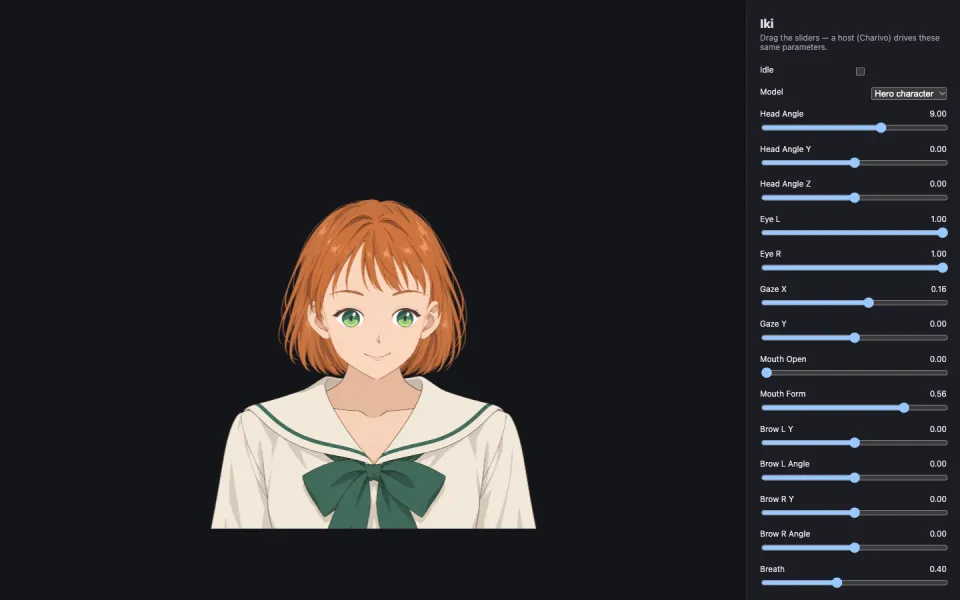
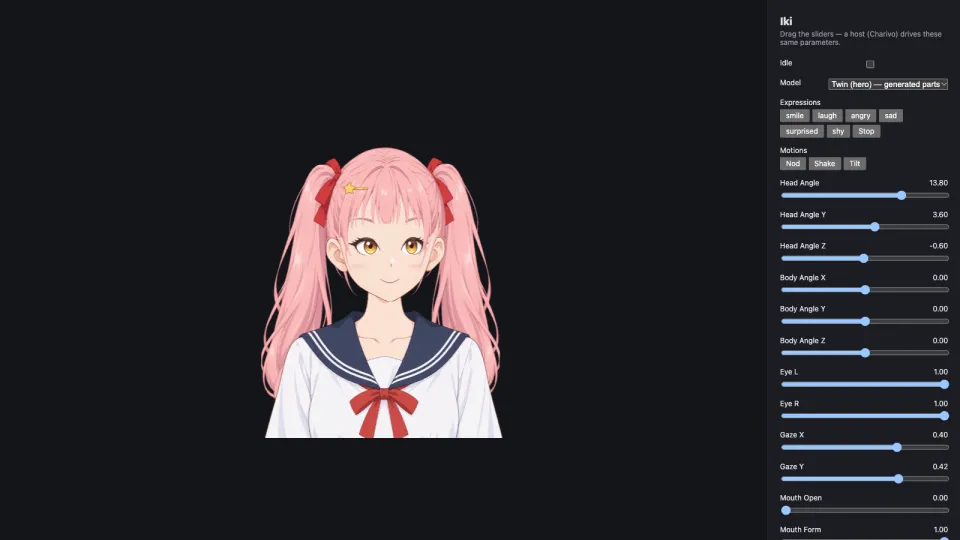
fix(projects): Iki, Cimulity and Charivo pages open with what each is and answer license, setup and limits; render-iki is on npm and Charivo's demo runs Iki characters; Iki image re-captured from the current playground

Changed region(s): [[0.7812, 0.0296, 1.0, 1.0], [0.2188, 0.2667, 0.5625, 0.8889]]

diff --git a/resume-ko.html b/resume-ko.html
@@ -131,7 +131,7 @@ redirect_from:
           <h3><a href="{{ '/projects/iki/' | relative_url }}">Iki</a></h3>
           <p>
             Live2D 대안으로 만든 웹용 오픈소스 2D 캐릭터 애니메이션 엔진입니다.
-            캐릭터를 설명하면 이미지 모델이 파츠를 그리고, AI 에이전트가 MCP 서버로 눈 깜빡임, 시선, 립싱크, 머리카락 물리까지 리깅합니다.
+            캐릭터를 설명하면 이미지 모델이 파츠를 그리거나 완성된 그림 한 장을 파츠로 잘라내고, AI 에이전트가 MCP 서버로 눈 깜빡임, 시선, 립싱크, 머리카락 물리까지 리깅합니다.
           </p>
           <div class="project-tags">
             <span>TypeScript</span>
@@ -182,12 +182,13 @@ redirect_from:
         <article class="resume-project">
           <h3><a href="{{ '/projects/charivo/' | relative_url }}">Charivo</a></h3>
           <p>
-            Live2D 캐릭터에 LLM과 음성을 붙이는 TypeScript 프레임워크로, 채팅, TTS, STT, 실시간 음성 프로바이더를 갈아 끼울 수 있게 npm 패키지 9개로 나눠 배포했습니다.
-            Live2D 모델의 표정과 모션을 LLM 도구로 노출해, 대화 중에 캐릭터가 스스로 표정을 바꾸고 움직입니다.
+            Live2D·Iki 캐릭터에 LLM과 음성을 붙이는 TypeScript 프레임워크로, 채팅, TTS, STT, 실시간 음성 프로바이더를 갈아 끼울 수 있게 npm 패키지 10개로 나눠 배포했습니다.
+            캐릭터 모델의 표정과 모션을 LLM 도구로 노출해, 대화 중에 캐릭터가 스스로 표정을 바꾸고 움직입니다.
           </p>
           <div class="project-tags">
             <span>TypeScript</span>
             <span>Live2D</span>
+            <span>Iki</span>
             <span>LLM/TTS/STT</span>
           </div>
         </article>

diff --git a/resume.html b/resume.html
@@ -129,8 +129,8 @@ redirect_from:
           <h3><a href="{{ '/projects/iki/' | relative_url }}">Iki</a></h3>
           <p>
             Open-source 2D puppet engine for the web, built as a Live2D alternative that an AI agent can rig.
-            Describe a character and an image model draws the parts, then the MCP server rigs blinking, gaze,
-            lip-sync, and hair physics automatically.
+            An image model draws a character's parts from a description, or one finished picture is cut into them,
+            then the MCP server rigs blinking, gaze, lip-sync, and hair physics automatically.
           </p>
           <div class="project-tags">
             <span>TypeScript</span>
@@ -185,13 +185,14 @@ redirect_from:
         <article class="resume-project">
           <h3><a href="{{ '/projects/charivo/' | relative_url }}">Charivo</a></h3>
           <p>
-            TypeScript framework that gives Live2D characters an LLM and a voice, published as nine npm packages
+            TypeScript framework that gives Live2D and Iki characters an LLM and a voice, published as ten npm packages
             with swappable providers. The model's expressions and motions are exposed as LLM tools, so the
             character changes them mid-conversation.
           </p>
           <div class="project-tags">
             <span>TypeScript</span>
             <span>Live2D</span>
+            <span>Iki</span>
             <span>LLM/TTS/STT</span>
           </div>
         </article>

diff --git a/_projects/charivo.md b/_projects/charivo.md
@@ -1,9 +1,9 @@
 ---
 layout: project
 title: "Charivo"
-description: "TypeScript framework for Live2D AI characters that talk, react, and look at you, with swappable OpenAI and Gemini backends for chat and voice."
+description: "TypeScript framework for AI characters that talk, react, and look at you, rendered with Live2D or Iki, with swappable OpenAI and Gemini backends for chat and voice."
 tagline: "TypeScript Framework for Live2D AI Characters"
-tech_stack: ["TypeScript", "Live2D", "OpenAI Realtime", "Gemini Live", "LLM/TTS/STT", "pnpm Monorepo", "Changesets"]
+tech_stack: ["TypeScript", "Live2D", "Iki", "OpenAI Realtime", "Gemini Live", "LLM/TTS/STT", "pnpm Monorepo", "Changesets"]
 github_url: "https://github.com/zeikar/charivo"
 demo_url: "https://charivo.vercel.app/"
 image: "/assets/images/projects/charivo.png"
@@ -11,14 +11,14 @@ gadget_no: 12
 date: 2025-09-16
 ---
 
-Charivo is the framework I build talking characters on: a Live2D model on a canvas, a language model behind it, and a voice going in and out. Each of those is its own `@charivo/*` package behind an interface, so moving a character from OpenAI to Gemini, or from typed chat to live voice, means swapping a client, not rewriting the app.
+**Charivo** is an open-source TypeScript framework for AI characters that talk, react, and look at you: a Live2D or [Iki](/projects/iki/) model on a canvas, a language model behind it, and a voice going in and out. Each of those is its own `@charivo/*` package on npm behind an interface, so moving a character from OpenAI to Gemini, or from typed chat to live voice, means swapping a client, not rewriting the app. It's the character's embodiment, not an agent framework: planning, long-term memory, and deciding when to speak stay in your app or agent runtime.
 
 ## Two ways to hold a conversation
 
 - **Cascade.** Text goes to an LLM, the reply goes to TTS, and the TTS manager analyzes the audio to drive lip sync. A new message cancels the turn still in flight, and `interrupt()` stops a reply mid-sentence.
 - **Realtime.** A realtime manager replaces the LLM + TTS pair with one speech-to-speech session: OpenAI Realtime over WebRTC or Gemini Live over WebSocket. Your server route only starts the session and hands out a short-lived credential. After that, the browser streams microphone audio straight to the provider and plays the voice back itself.
 
-OpenAI and Gemini both cover every modality: chat, TTS, STT, and realtime. Speech-to-text also comes in streaming form, so a transcript fills in while you're still talking.
+OpenAI and Gemini both cover every modality: chat, TTS, STT, and realtime. Chat has a third provider, a local OpenClaw agent. Speech-to-text also comes in streaming form, so a transcript fills in while you're still talking.
 
 ## Keys belong on the server
 
@@ -26,10 +26,22 @@ Every modality splits into a stateful manager and interchangeable clients. The `
 
 ## The LLM picks the expression
 
-`@charivo/avatar` turns the loaded model's own expressions and motions into tools: `setExpression`, `playMotion`, and `lookAt`. Their arguments are enums built from that model's catalog, so the LLM can't call for an expression the model doesn't have. The same tools plug into typed chat and realtime voice alike, so a reply can change the character's expression and pose, not just move its mouth.
+`@charivo/avatar` turns the loaded model's own expressions and motions into tools: `setExpression`, `playMotion`, and `lookAt`. The first two take enums built from that model's catalog, so the LLM can't call for an expression the model doesn't have; `lookAt` takes a point to look at. The same tools plug into typed chat and realtime voice alike, so a reply can change the character's expression and pose, not just move its mouth.
+
+## Live2D or Iki
+
+The renderer is a package too. `@charivo/render-live2d` plays Cubism models, and [`@charivo/render-iki`](https://www.npmjs.com/package/@charivo/render-iki) plays `.iki` models from [Iki](/projects/iki/), my open 2D rig engine whose characters an AI agent can draw and rig. Lip sync, gaze, and the avatar tools work the same on either.
+
+Every package is MIT except `@charivo/render-live2d`, which bundles the Cubism SDK for Web. Publishing a product built on it needs Live2D's publication license, from which small developers are exempt in some cases; the Iki renderer needs no license beyond MIT.
 
 ## Where it runs
 
-There are two live demos. The [web app](https://charivo.vercel.app/) lets you switch every provider from a settings menu, and the [Companion](https://charivo-companion.vercel.app/) is voice-first and remembers you across sessions in the same browser. The docs live at [zeikar.dev/charivo](https://zeikar.dev/charivo/).
+There are two live demos. The [web app](https://charivo.vercel.app/) lets you switch every provider from a settings menu and talk to Live2D or Iki characters, including Iki's [Twin](https://charivo.vercel.app/?character=twin) and full-body [Mint](https://charivo.vercel.app/?character=mint). The [Companion](https://charivo-companion.vercel.app/) is voice-first and remembers you across sessions in the same browser. The docs live at [zeikar.dev/charivo](https://zeikar.dev/charivo/), and a typed-chat character starts from:
 
-[LiveClaw](/projects/liveclaw/) is an Electron desktop app built on Charivo that gives a local OpenClaw agent a Live2D face and a voice. Charivo can also render through [Iki](/projects/iki/), my open 2D rig engine, via a private `render-iki` adapter that isn't published to npm; the published renderer and the demos use Live2D. CI still builds that adapter against Iki's published engine, so a breaking change in Iki fails Charivo's build.
+```
+pnpm add @charivo/core @charivo/llm @charivo/tts @charivo/render @charivo/render-live2d
+```
+
+For an Iki model, swap `@charivo/render-live2d` for `@charivo/render-iki`.
+
+[LiveClaw](/projects/liveclaw/) is an Electron desktop app built on Charivo that gives a local OpenClaw agent a Live2D face and a voice.

diff --git a/_projects/iki.md b/_projects/iki.md
@@ -26,7 +26,7 @@ date: 2026-06-04
 ## An agent draws and rigs the character
 
 - **What goes in:** one of three things. A text description, from which the plugin generates each part. One finished, front-facing picture, which the plugin cuts into layers in place, painting in what each layer hides, so at rest the model is the picture itself. Or your own transparent PNG layers named by role, or a plain PSD of the same layers, in the editor. `face`, `eye_L`, `eye_R` and `mouth` are required; irises, brows, lashes, nose, blush, hair, and torso are optional.
-- **What comes out:** a validated `.iki` model that blinks, gazes, lip-syncs, turns, nods and tilts its head, moves its brows, and breathes, with hair swaying on physics. On a turn the nose leads, the features slide across the face, and the back hair trails behind, so it reads as a head rotating rather than a cutout sliding.
+- **What comes out:** a validated `.iki` model that blinks, gazes, lip-syncs, turns, nods and tilts its head, moves its brows, and breathes, with hair swaying on physics. It also gets nod, shake and tilt motions and up to six expressions that a host plays by name: smile, laugh and surprised on any model, angry and sad when it has brows, shy when it has blush. On a turn the nose leads, the features slide across the face, and the back hair trails behind, so it reads as a head rotating rather than a cutout sliding.
 - **How an agent drives it:** the `@ikijs/mcp` server exposes `auto_rig_from_layers`, plus `compose_layers_from_parts` to place generated part images on a shared canvas and `measure_layers`, a geometry report that catches an iris the wrong size for its eye or a cropped edge before it costs another round of image generation. `measure_turn_reference` measures how far a head turns between a front and a turned reference image, so the rig's turn can be fitted to it. For a finished picture, `view_illustration_grid` shows it under a coordinate grid so the agent can read landmarks off it (the eyes, the brows, the bangs), and `cut_layers_from_illustration` cuts along them and reports numeric checks the agent fixes against.
 
 The plugin, for Claude Code and Codex, bundles the server with three skills: a single pass from a text description to a finished `.iki`, a generator/critic loop in which an artist agent draws and re-rigs while a critic agent scores the render against a reference image until it's worth shipping, and the import that cuts one finished picture. Drawing the parts needs an image generator; the prompts were tuned against Codex CLI's built-in image generation.
@@ -50,6 +50,10 @@ The validator fails fast and names the exact path, e.g. `parts[3].mesh.indices[1
 
 ## Using it
 
-The format, engine, a headless editing core, and the MCP server are on npm under `@ikijs`. The [landing page](https://zeikar.dev/iki/) plays the generated hero live, its head and eyes following the mouse, and the [playground](https://zeikar.dev/iki/playground/) moves it with the same sliders a host would drive, beside the same character cut from one picture. The [editor](https://zeikar.dev/iki/editor/) auto-rigs a set of named layers in a couple of seconds, authors parts, deformers, and physics rigs, and exports a validated `.iki`. It's still early and the schema is settling; for production-grade rigging today, use Cubism.
+The format, engine, a headless editing core, and the MCP server are on npm under `@ikijs`. The [landing page](https://zeikar.dev/iki/) plays the generated hero live, its head and eyes following the mouse. The [playground](https://zeikar.dev/iki/playground/) drives it with the sliders, expressions, and motions a host would use, switches to the same character cut from one picture or to full-body models, and opens any `.iki` you load. The [editor](https://zeikar.dev/iki/editor/) auto-rigs a set of named layers (or [its sample set](https://zeikar.dev/iki/editor/?sample)) in a couple of seconds, authors parts, deformers, and physics rigs, and exports a validated `.iki`.
 
-[Charivo](/projects/charivo/) dogfoods it through a private `render-iki` adapter that its CI builds against Iki's published engine; Charivo's published renderer and demos still use Live2D.
+The runtime goes wherever WebGL2 does: a web page, an Electron window, an OBS browser source. [Charivo](/projects/charivo/) renders `.iki` models through [`@charivo/render-iki`](https://www.npmjs.com/package/@charivo/render-iki), and its [live demo](https://charivo.vercel.app/?character=twin) lets you talk to the hero character, Twin, and a full-body one, Mint, by chat or voice, with lip-sync.
+
+## What it isn't, yet
+
+Iki is 0.x. It rigs and plays characters, but it isn't a VTuber app: there's no webcam face tracking, so your code or a host like Charivo drives the character. Characters are front views that turn about 30° either way, not full 3D turns. It can't load Live2D models, there's no native or Unity runtime, and until 1.0 the `.iki` format can still change. For production-grade rigging today, use Cubism.

diff --git a/_projects/cimulity.md b/_projects/cimulity.md
@@ -11,7 +11,7 @@ gadget_no: 13
 date: 2026-01-07
 ---
 
-You lay roads, zone land as residential, commercial or industrial, and place power plants, water towers, police and fire stations, hospitals, schools and parks on a 64×64 isometric map. The simulation decides what gets built. The ground is a generated heightmap you can raise, lower and flatten, and anything at or below sea level is water. It's playable and still growing, built with my Claude Code plugin [hyperclaude](/projects/hyperclaude/).
+**Cimulity** is an open-source, MIT-licensed SimCity-style city builder that runs in the browser, written in TypeScript on PixiJS and Next.js. You lay roads, zone land as residential, commercial or industrial, and place power plants, water towers, police and fire stations, hospitals, schools and parks on a 64×64 isometric map. The simulation decides what gets built. The ground is a generated heightmap you can raise, lower and flatten, and anything at or below sea level is water. It's an open-ended sandbox with no win or lose condition. It's playable, still growing, and built with my Claude Code plugin [hyperclaude](/projects/hyperclaude/).
 
 ## Everything runs over the roads
 
@@ -19,7 +19,11 @@ A zone stays empty until its type has demand, it has power, and a road sits with
 
 From level 1 a building extends its structure deeper into the lot, then levels up, then gains density, and every step needs water, enough land value, and all four services. Service coverage fades with road distance from the nearest station. Since every station of a type is equally strong, one breadth-first search seeded from all of them at once gives each road tile its best coverage in a single pass. Coverage also feeds land value, along with road access, the zone mix and nearby parks.
 
-Once two neighboring lots are fully built out they can merge, and only a merged lot reaches the top density tier. Above level 1, a building whose land value falls below its level's threshold goes derelict until the value recovers.
+Once two neighboring lots of the same type are fully built out (top level 5, with the deepest structure and densest tier their lot allows), they can merge, and only a merged lot reaches the top density tier. Above level 1, a building whose land value falls below its level's threshold goes derelict until the value recovers.
+
+## An unpaid month stops growth
+
+Money is monthly tax income minus the upkeep of structures and roads, and placing anything spends from it. If a month's upkeep can't be paid in full, no building levels up, extends, densifies or merges until a month is paid in full again. New buildings still appear, nothing is abandoned over the shortfall, and an empty treasury never blocks demolition, so a broke city stalls instead of collapsing. The HUD shows the projected net flow, how much of last month's upkeep was funded, and a warning before growth freezes.
 
 ## Commutes are what make traffic
 
@@ -36,3 +40,7 @@ Player edits take one path. Input turns pointer and keyboard events into a tile 
 React mounts the canvas and draws the HUD and toolbar. `GameSession` wires Pixi, input and dispatch together outside React, and the canvas component passes it callbacks whose identity never changes, so a HUD re-render never restarts the Pixi session.
 
 Derived data (power, coverage, land value, labor, traffic) is recomputed lazily, and marking one layer dirty marks everything downstream at the same moment. Tests hold the pure logic to 80% coverage; Pixi glue, DOM input and the session wiring are left out and checked by playing.
+
+## Playing it
+
+The [live build](https://zeikar.dev/cimulity/) is a static export on GitHub Pages and saves your city in the browser as you play, with a New City button to start over. Edge-scroll pans, the wheel zooms, Space pauses, and 1, 2 and 3 set the speed. To run it locally, clone the [repo](https://github.com/zeikar/cimulity), then `npm install` and `npm run dev`.
